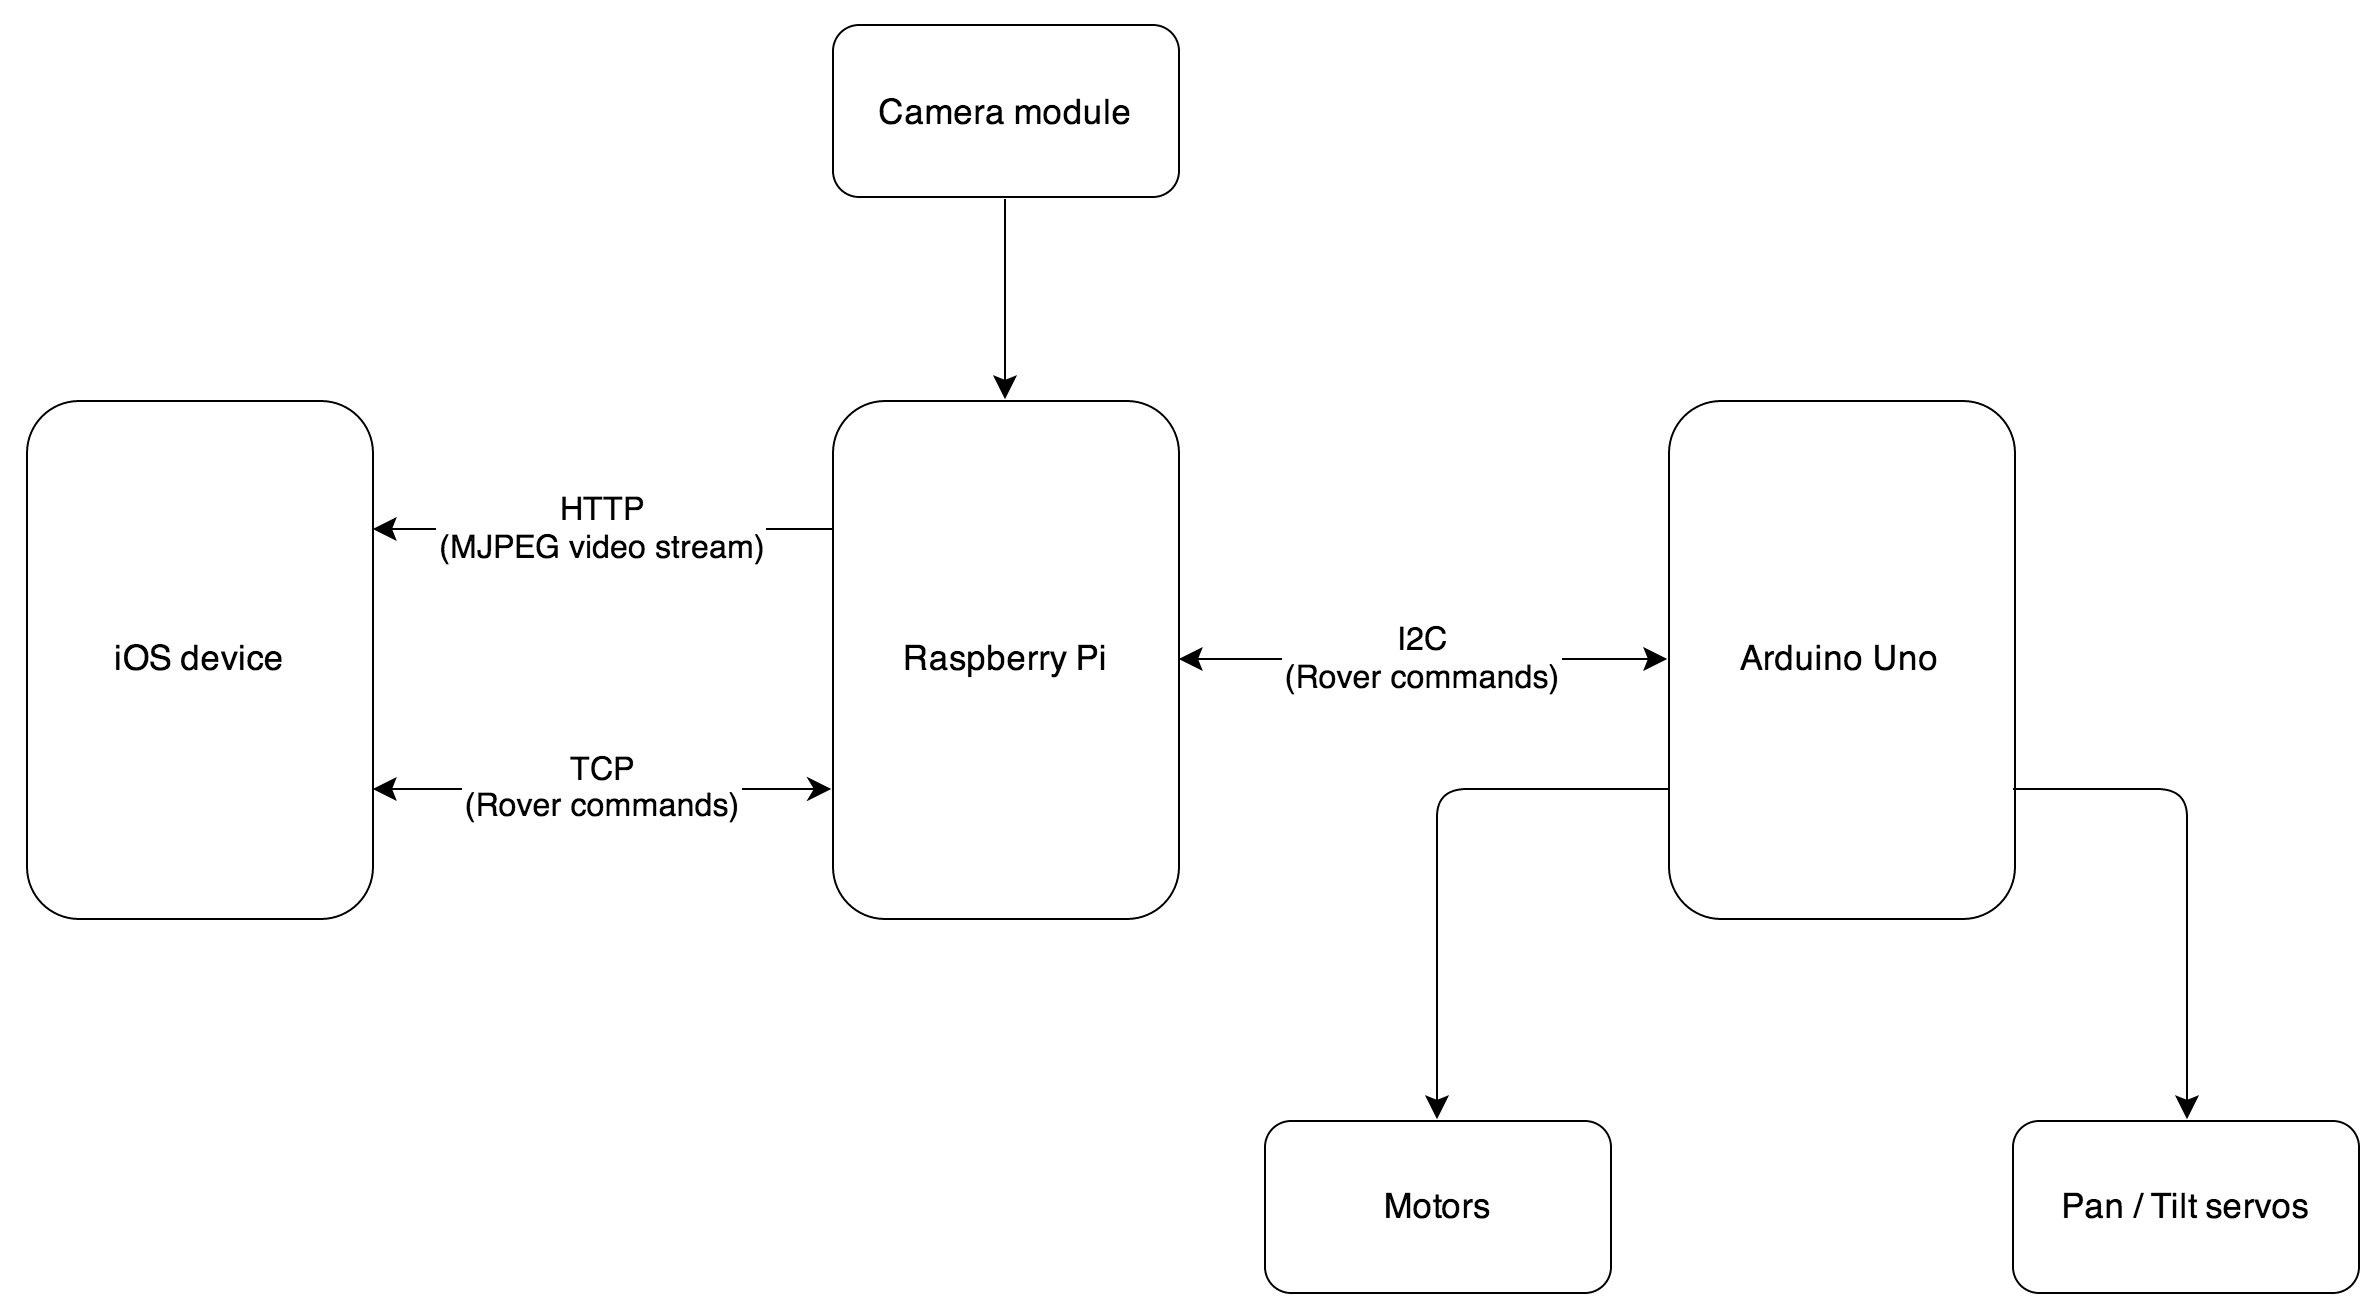
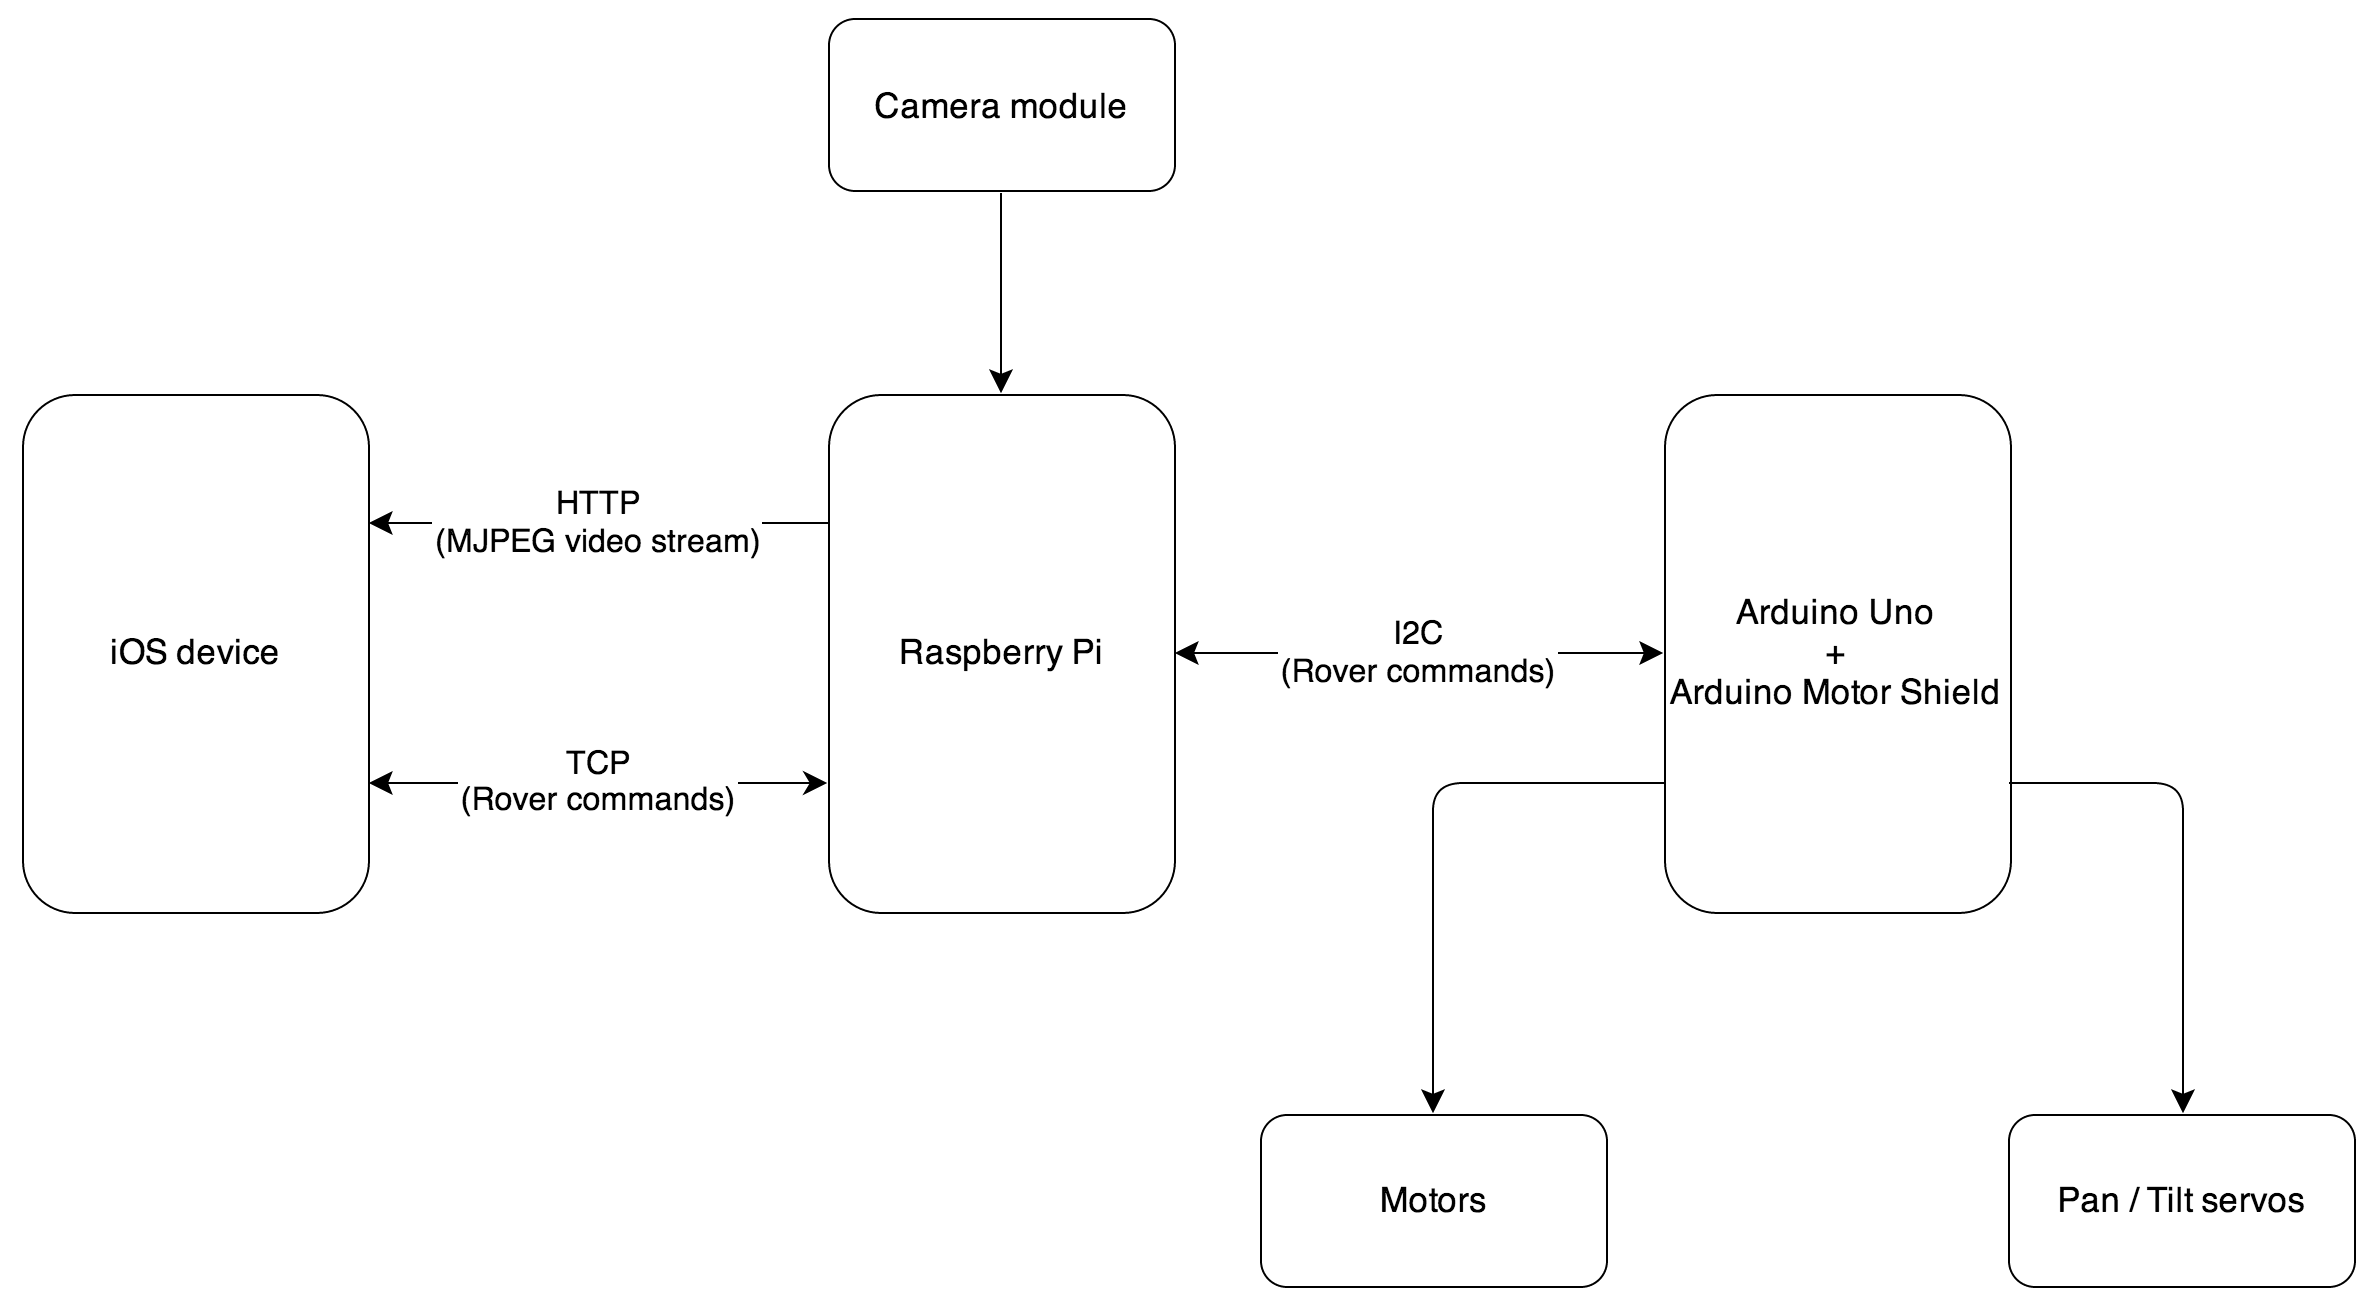
Typo + clarification on flowchart

diff --git a/README.md b/README.md
@@ -23,7 +23,7 @@ Architecture
 RaspiDuinoRover is made of three main parts :
 
 * A Raspberry Pi which will receive commands from a remote device through a TCP connexion, and will send these commands to an Arduino Uno through an I2C connection. The same TCP channel will be use to send back to the remote data grabbed from the Arduino Uno about pan and tilt servo positions, camera lighting status and motors current usage. The Raspberry Pi also provides an MJPEG video stream from its camera module. 
-* An Arduino Uno which will receive commands from the Raspberry Pi though an I2C connexion, and accordingly drives rover motors (with the help off an Arduino Motor Shield) and position pan and tilt servos. It will regularly get infos about pan and tilt servo positions, camera lighting status and motors current usage, and send it back to the Raspberry Pi when asked for.
+* An Arduino Uno which will receive commands from the Raspberry Pi though an I2C connexion, and accordingly drives rover motors (with the help of an Arduino Motor Shield) and position pan and tilt servos. It will regularly get infos about pan and tilt servo positions, camera lighting status and motors current usage, and send it back to the Raspberry Pi when asked for.
 * An iOS device which will serve as a remote control for the rover. It will connect to the Raspberry Pi through a TCP connection, and display its MJPEG video stream.
 
 ![Flowchart](/Images/flowchart.png "Flowchart")
